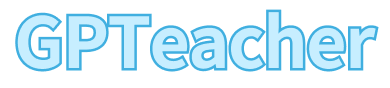
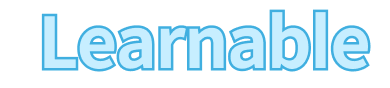
[Update] 서비스명 변경

diff --git a/lib/screen/agreement_screen.dart b/lib/screen/agreement_screen.dart
@@ -95,11 +95,11 @@ class _AgreementScreenState extends State<AgreementScreen> {
                 child: SingleChildScrollView(
                   child: Center(
                     child: Text("""
-*< 3BE >('https://ambitious-salt-4a6.notion.site/GPTeacher-7'이하 'GPTeacher')*은(는) 「개인정보 보호법」 제30조에 따라 정보주체의 개인정보를 보호하고 이와 관련한 고충을 신속하고 원활하게 처리할 수 있도록 하기 위하여 다음과 같이 개인정보 처리방침을 수립·공개합니다.
+*< 3BE >('https://ambitious-salt-4a6.notion.site/GPTeacher-7'이하 'Learnable')*은(는) 「개인정보 보호법」 제30조에 따라 정보주체의 개인정보를 보호하고 이와 관련한 고충을 신속하고 원활하게 처리할 수 있도록 하기 위하여 다음과 같이 개인정보 처리방침을 수립·공개합니다.
 
 ○ 이 개인정보처리방침은 *2023*년 *5*월 *31*부터 적용됩니다.
 
-**제1조(개인정보의 처리 목적)*< 3BE >('https://ambitious-salt-4a6.notion.site/GPTeacher-7'이하 'GPTeacher')*은(는) 다음의 목적을 위하여 개인정보를 처리합니다. 처리하고 있는 개인정보는 다음의 목적 이외의 용도로는 이용되지 않으며 이용 목적이 변경되는 경우에는 「개인정보 보호법」 제18조에 따라 별도의 동의를 받는 등 필요한 조치를 이행할 예정입니다.**
+**제1조(개인정보의 처리 목적)*< 3BE >('https://ambitious-salt-4a6.notion.site/GPTeacher-7'이하 'Learnable')*은(는) 다음의 목적을 위하여 개인정보를 처리합니다. 처리하고 있는 개인정보는 다음의 목적 이외의 용도로는 이용되지 않으며 이용 목적이 변경되는 경우에는 「개인정보 보호법」 제18조에 따라 별도의 동의를 받는 등 필요한 조치를 이행할 예정입니다.**
 
 1. 홈페이지 회원가입 및 관리
 

diff --git a/lib/login/social_login.dart b/lib/login/social_login.dart
@@ -217,7 +217,7 @@ class _SocialLoginState extends State<SocialLogin> {
     return Container(
       alignment: Alignment.center,
       child: Image.asset(
-        'assets/images/GPTeacher.png',
+        'assets/images/titleText.png',
       ),
     );
   }
